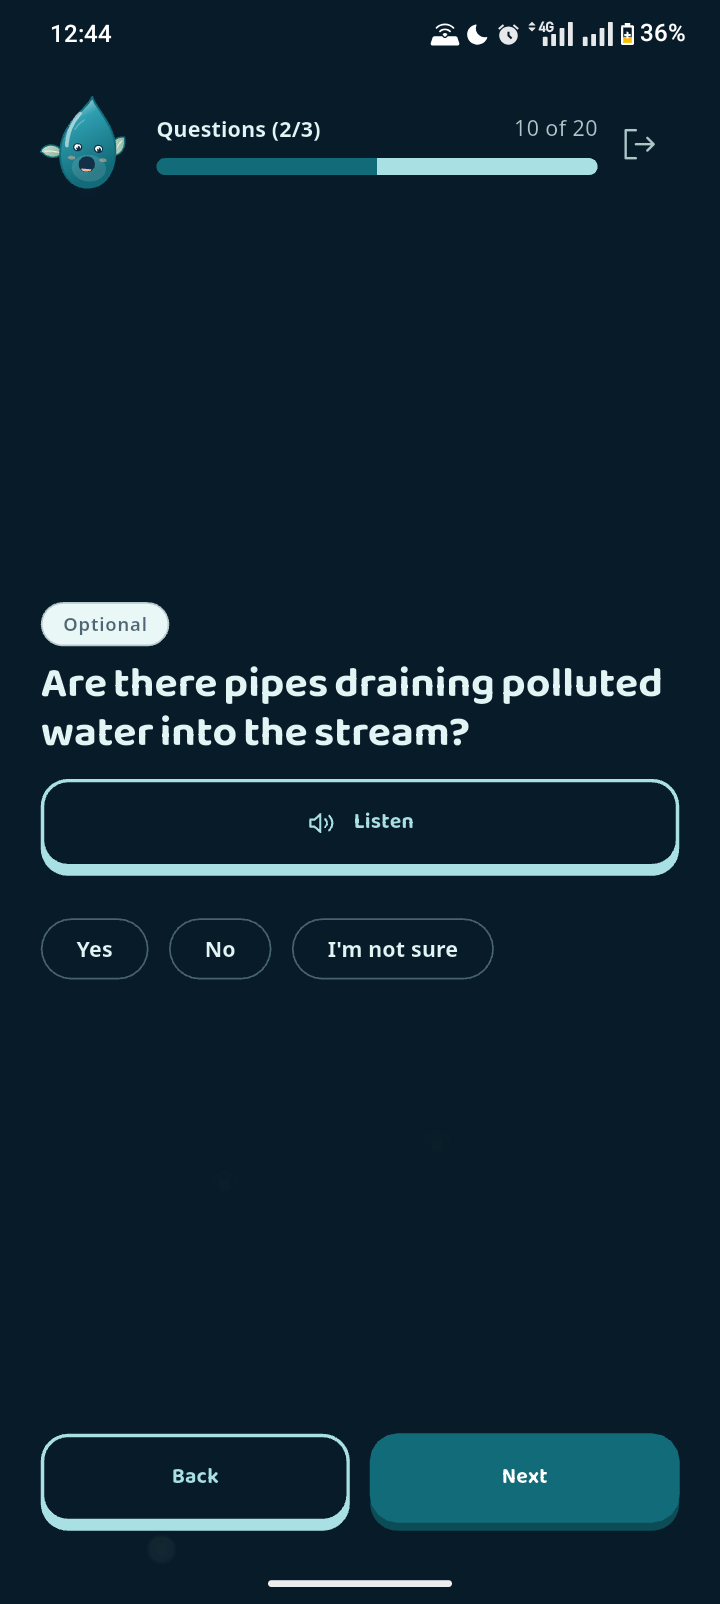
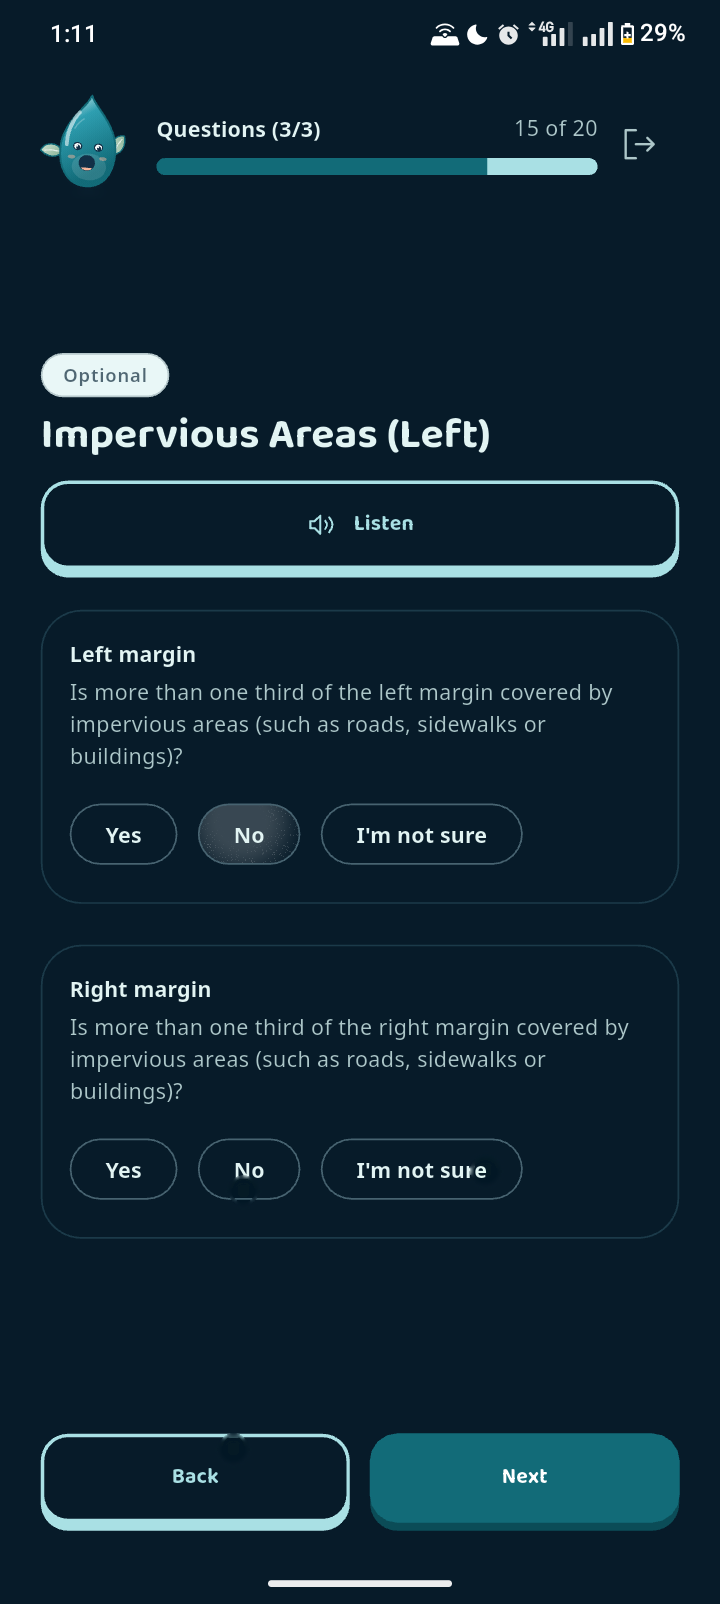
feat(video): show the impervious areas question in the questions beat
Replace the pipes question with the captain's new Impervious Areas
(left and right margins) screenshot, the direct counterpart of the old
app's question on that topic, with its tap dots removed.

diff --git a/submission/video/scripts/import_new_shots.py b/submission/video/scripts/import_new_shots.py
@@ -37,7 +37,7 @@ SHOTS = {
     '06a': 'Screenshot_20261005-124432.png',  # channel form, picture answers (dark)
     '06b': 'Screenshot_20261005-124434.png',  # bottom of the channel, picture answers
     '06c': 'Screenshot_20261005-124437.png',  # banks, picture answers
-    '06d': 'Screenshot_20261005-124441.png',  # pipes: Yes / No / I'm not sure
+    '06d': 'Screenshot_20261005-131125.png',  # impervious areas left/right: Yes / No / I'm not sure
     '08a': 'Screenshot_20261005-124446.png',  # overall health (dark)
     '09a': 'Screenshot_20261005-124515.png',  # photograph the stream (dark)
     '09r': 'Screenshot_20261005-113353.png',  # photograph the stream (light, README still)
@@ -71,7 +71,7 @@ TAP_DOTS = {
     '06a': [(463, 1093), (224, 1135), (171, 1436)],
     '06b': [(273, 1007), (226, 1269)],
     '06c': [(594, 1054), (389, 1092), (361, 1349)],
-    '06d': [(161, 1549), (437, 1144), (224, 1184)],
+    '06d': [(233, 1448, 1.03), (243, 1190, 1.03), (485, 1170, 1.03)],
     '08a': [(292, 1475), (258, 1262), (480, 1102)],
     '09a': [(635, 1170), (369, 1211), (338, 1448)],
     '09r': [(384, 973), (611, 1004), (272, 1218)],

diff --git a/submission/video/README.md b/submission/video/README.md
@@ -71,7 +71,7 @@ six README stills (`screens/01-onboarding-purpose.png` ...).
 | Language | 03a language picker, 03b profile in Arabic (right to left, zoom), 03c profile in Greek | 5 |
 | Sign-in | 04a friendly error, fictional account (wipe and zoom), 04b avatar picker | 22, 21, 23 |
 | Map | 05a home map (zoom on the filters), 05b "Which stream?" | 6, 7, 8 |
-| Questions (dark theme) | 06a-06c picture answers (wipe on 06a), 06d Yes / No / I'm not sure | 10, 11, 12 |
+| Questions (dark theme) | 06a-06c picture answers (wipe on 06a), 06d impervious areas, left and right: Yes / No / I'm not sure | 10, 11, 12 |
 | Overall health (dark) | 08a overall assessment | 13, 14 |
 | Photos (dark) | 09a "Photograph the stream" (wipe) | 9 |
 | Submitted | 11a "Stream check submitted", 11b "Your impact" (zoom) | none |
